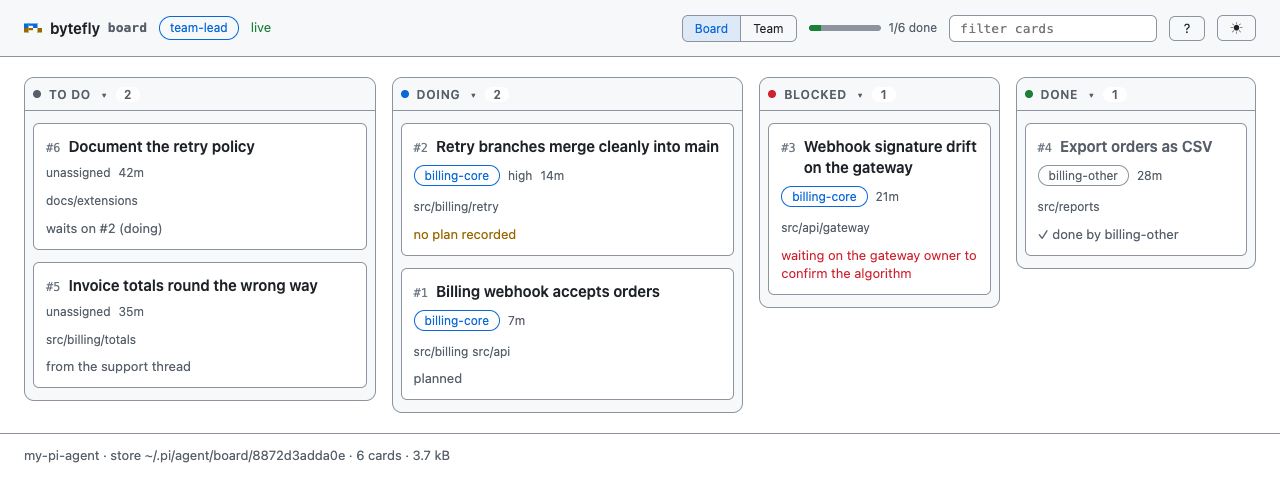
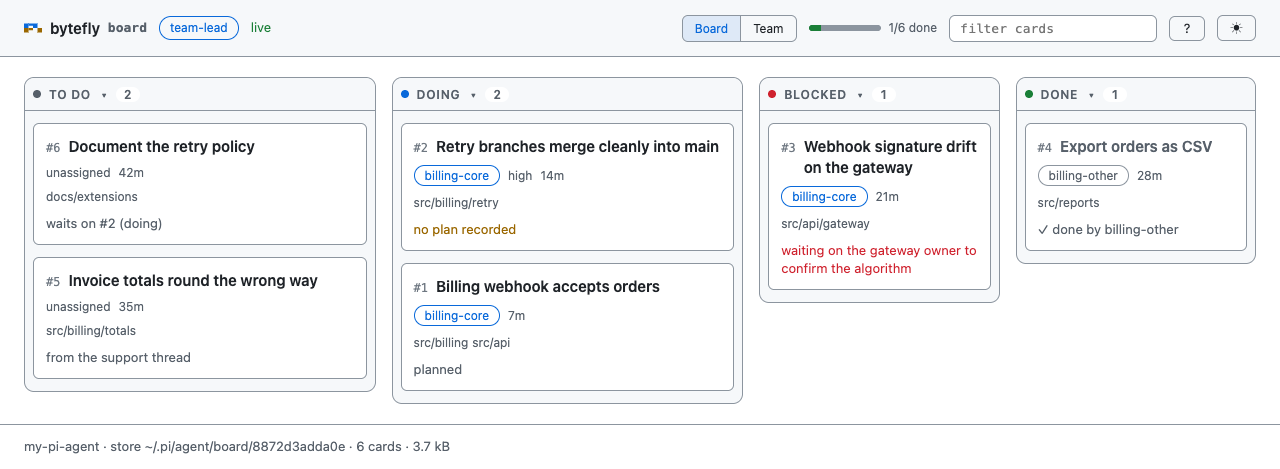
fix(board): keep a card's long path and title inside the card
A chip is one line and nowrap by design, and each path chip sat in a flex
item whose automatic minimum was the chip's width — so one path, or one
`/team join` label, longer than the card crossed the card's border and the
lane beside it (measured at 1280: a 348px chip in a 318px card).

The list item now shrinks (`min-width:0`), the card's chips clip at the card's
edge (`display:block`, `max-width:100%`, ellipsis), the renderer puts the whole
path on each chip's hover title the way the card dialog already does, and a
title with no spaces wraps into its two-line clamp instead of being cut
mid-word. The lighter inline-flex variant stops the spill too, but hard-clips
with no ellipsis, so the chips lay out as blocks inside a card — which is why
assets/screens/board.png is a few pixels tighter per card.

The browser suite seeds a 90-character path mid-run and fails if any card's
content spills; it fails on the old CSS.

diff --git a/extensions/board/view/styles.ts b/extensions/board/view/styles.ts
@@ -77,7 +77,7 @@ ${WEB_COMPONENTS_CSS}
 .board-card[hidden]{display:none}
 .board-card__head{display:flex;align-items:baseline;gap:var(--space-2);margin:0;min-width:0}
 .board-card__id{font:var(--fs-xs) var(--font-mono);color:var(--dim)}
-.board-card__title{margin:0;padding:0;border:0;background:none;text-align:left;cursor:pointer;font:var(--fw-semibold) var(--fs-base)/var(--lh-snug) var(--font-ui);color:var(--text);display:-webkit-box;-webkit-line-clamp:2;-webkit-box-orient:vertical;overflow:hidden}
+.board-card__title{margin:0;padding:0;border:0;background:none;text-align:left;cursor:pointer;font:var(--fw-semibold) var(--fs-base)/var(--lh-snug) var(--font-ui);color:var(--text);display:-webkit-box;-webkit-line-clamp:2;-webkit-box-orient:vertical;overflow:hidden;overflow-wrap:anywhere}
 .board-card__title:hover{color:var(--accent)}
 /* Finished work recedes: it is history, and the live lanes should not compete with it. */
 .board-card[data-status="done"] .board-card__title{color:var(--muted)}
@@ -85,6 +85,12 @@ ${WEB_COMPONENTS_CSS}
 .board-card[data-status="done"] .bf-chip--accent{color:var(--muted);border-color:var(--border)}
 .board-card__meta{display:flex;flex-wrap:wrap;align-items:center;gap:var(--space-2);margin:0;font:var(--fs-xs) var(--font-ui);color:var(--muted)}
 .board-card__paths{display:flex;flex-wrap:wrap;gap:var(--space-1);margin:0;padding:0;list-style:none}
+/* A chip is one line and nowrap by design, so an owner label or a path longer than the card
+   would spill past its border and across the lane beside it: clipped to the card instead,
+   with the whole of it on the hover title the renderer sets. The list item has to be the one
+   that shrinks, because a flex item's automatic minimum is its chip's width. */
+.board-card__paths li{min-width:0;max-width:100%}
+.board-card .bf-chip{display:block;max-width:100%;overflow:hidden;text-overflow:ellipsis}
 .board-card__reason{margin:0;font:var(--fs-sm)/var(--lh-snug) var(--font-ui);color:var(--muted);display:-webkit-box;-webkit-line-clamp:2;-webkit-box-orient:vertical;overflow:hidden;overflow-wrap:anywhere}
 .board-card__reason--blocked{color:var(--danger)}
 .board-card__reason--unplanned{color:var(--warn)}

diff --git a/extensions/board/view/behaviour.test.ts b/extensions/board/view/behaviour.test.ts
@@ -122,6 +122,9 @@ interface Doc {
 interface ElementLike {
 	textContent: string | null;
 	hidden: boolean;
+	/** The box a child can overflow: a card whose content spills has the larger scroll width. */
+	scrollWidth: number;
+	clientWidth: number;
 	getAttribute(name: string): string | null;
 }
 
@@ -427,6 +430,28 @@ describe.skipIf(CHROME === undefined)("the served page", () => {
 				undefined,
 				{ timeout: PAINT_MS },
 			);
+		} finally {
+			await store.mutate(added.id, { kind: "drop" }, CORE, clock.now());
+			await page.close();
+		}
+	});
+
+	test("keeps a path longer than the card inside it, and the whole value on its title", async () => {
+		const page = await openPage();
+		// A path with no break opportunity, longer than any lane: a one-line, nowrap chip used to
+		// spill out of the card and over the lane beside it.
+		const path = `src/billing/reconciliation/legacy-adapter/compat/shim/${"x".repeat(90)}/index.ts`;
+		const added = await store.create({ title: "A card with a long hint", paths: [path] }, CORE, clock.now());
+		try {
+			const chip = page.locator(`.board-card[data-card="${added.id}"] .board-card__paths .bf-chip`);
+			await chip.waitFor({ timeout: PAINT_MS });
+			expect(await chip.getAttribute("title")).toBe(path);
+			const spills = await page.$$eval(".board-card", (cards) =>
+				Array.from(cards as ArrayLike<ElementLike>)
+					.filter((card) => card.scrollWidth > card.clientWidth + 1)
+					.map((card) => card.getAttribute("data-card") ?? "?"),
+			);
+			expect(spills).toEqual([]);
 		} finally {
 			await store.mutate(added.id, { kind: "drop" }, CORE, clock.now());
 			await page.close();

diff --git a/extensions/board/view/pages.test.ts b/extensions/board/view/pages.test.ts
@@ -174,6 +174,19 @@ describe("the document", () => {
 		expect(BOARD_CSS).toContain(".board-dialog__value{white-space:nowrap;overflow:hidden;text-overflow:ellipsis}");
 	});
 
+	test("keeps a card's text inside its border", () => {
+		// A chip is one line and nowrap by design, so an owner label or a path longer than the
+		// card used to spill past its border and across the lane beside it. The list item is
+		// what shrinks, the chip is what clips, and the whole value is on the hover title.
+		expect(BOARD_CSS).toContain(".board-card__paths li{min-width:0;max-width:100%}");
+		expect(BOARD_CSS).toContain(
+			".board-card .bf-chip{display:block;max-width:100%;overflow:hidden;text-overflow:ellipsis}",
+		);
+		expect(BOARD_CLIENT_JS).toContain("hint.title = shown[i]");
+		// A title with no spaces in it wraps to the two-line clamp instead of being cut mid-word.
+		expect(ownRules()).toMatch(/\.board-card__title\{[^}]*overflow-wrap:anywhere/);
+	});
+
 	test("draws every colour through a kit token", () => {
 		// A literal colour would survive the theme toggle and the print theme. The
 		// shared theme block is where literals belong, so only the page's own rules

diff --git a/extensions/board/view/render.ts b/extensions/board/view/render.ts
@@ -153,7 +153,11 @@ __RUNTIME__
     var shown = card.paths.slice(0, limit);
     for (var i = 0; i < shown.length; i++) {
       var item = el("li", "");
-      item.appendChild(chip(shown[i]));
+      var hint = chip(shown[i]);
+      // A path longer than the card elides, and the whole of it is on the hover title: the
+      // card is often the only place its hints are read before opening the record.
+      hint.title = shown[i];
+      item.appendChild(hint);
       list.appendChild(item);
     }
     if (card.paths.length > limit) {

diff --git a/docs/extensions/board.md b/docs/extensions/board.md
@@ -188,7 +188,7 @@ reason: a store key is a hash, and no reader can say it out loud.
 |---|---|
 | Toolbar | the mark, the seat the page is served as, as a chip, a live badge (`connecting…`, `live` or `live · 3m`, `reconnecting…`), then one group: the Board\|Team switch, done-of-total progress, a filter, the keys button, and the theme toggle |
 | Lanes | trays, not a bare list: one column per lane, sized by the work it holds — a lane with two cards is wider than one with a single card, and a lane showing nothing, because it holds no cards or because it is folded, narrows to a rail of dot, word, and count — so the lanes carrying work keep the width. Three or four across above 1180px, two at 1180px or narrower, one lane plus the lane switch at 860px or narrower — where it opens on the first lane that holds a card. Each head sticks while the pane scrolls, carries its count as a pill, and folds its cards away: `Done` starts folded at six cards or more, since finished work is history, and a reader's toggle decides from then on |
-| Cards | the id and a two-line title (the page's loudest text and its only door), an owner chip and an age, a muted priority chip when it is not `normal`, path chips, and one reason line in one voice — what a card waits for, a blocked card's recorded reason or else its last note (or `blocked, with nothing recorded`), `no plan recorded`, `planned`, `✓ done by <owner>` with the commit it landed as, and the last note of a card that is none of those — up to two lines at the Team tab's size, with the whole sentence as its tooltip, because the reason is the reason to act on the card. A card draws **no button**: claiming, moving, editing, and annotating are the tools' work, and a face that offered them would be offering a refusal. A hovered card lifts a pixel; a finished one recedes, title and owner chip muted |
+| Cards | the id and a two-line title (the page's loudest text and its only door), an owner chip and an age, a muted priority chip when it is not `normal`, path chips, and one reason line in one voice — what a card waits for, a blocked card's recorded reason or else its last note (or `blocked, with nothing recorded`), `no plan recorded`, `planned`, `✓ done by <owner>` with the commit it landed as, and the last note of a card that is none of those — up to two lines at the Team tab's size, with the whole sentence as its tooltip, because the reason is the reason to act on the card. A title and a path chip elide **inside** the card: a chip is one line by design, so a path or a label longer than the card is clipped rather than crossing into the lane beside it, and its whole value is the hover title. A card draws **no button**: claiming, moving, editing, and annotating are the tools' work, and a face that offered them would be offering a refusal. A hovered card lifts a pixel; a finished one recedes, title and owner chip muted |
 | Team | two panels and a strip. **Needs a decision** is one row per card — a card that is both idle and unplanned arrives once, keeping its strongest reason — laid out as two lines: the id, title and owner chip on the first, the reason on the second — a blocked card's recorded `blockedBy`, else its last note, and `offered 2h ago — nobody took it` for a card whose offer went unanswered — with the whole sentence as its tooltip, and its kind as a left edge (`--danger` blocked, `--warn` idle, `--dim` unplanned or waiting, the same `--dim` dashed for nobody's). The row is a reason to pick the card up in the terminal, and it draws no button: claiming and reclaiming are the tools' work. An unassigned card that waits on unfinished work is a row of its own kind, ranked just under a blocker. Above 1180px the queue stops at one screen's height and scrolls inside its panel, so the roster and the Done strip stay on the same page as its top. **Teammates** is one row per person — a state dot, the label, a `you` chip, a `not listening` chip on a live peer whose inbox watch is off, a mail badge, then `live · 3 held · 1 done · oldest 21m` (a quiet session reads `quiet for 2h`, because a word without an age is no reason to reclaim) — sorted you, live, quiet, no record, and an owner whose label nothing answers to keeps its row. Done is one quiet strip whose ids open their cards. Both panels honour the toolbar's filter, and their headings read `shown/total` the way a lane head does. Below 1180px the queue comes first and the roster follows |
 | Card dialog | the record of one card, in two named sections. The head carries the id, the title, and the lane as a dot and a word. **The card** is a ladder — one fact per row, labels sized to the longest of them so the values line up: owner, priority when it is not `normal`, updated, in lane, last edited, landed, waits on, waited on by, plan, paths. `in lane` is the lane the card is in and how long it has held it, read from the card's transitions rather than from `updatedAt`, which a note or an edit moves; a card whose history does not say omits the row. The plan and each path are one line that elides, with the whole value on the hover title; what it waits for reads `#2 (doing)`, the lanes that make the id a decision. Empty rows take their labels with them. **Notes · N** is the cargo at body size on a 68ch measure, each sentence with its attribution under it and a rule between notes, and `M earlier notes dropped` when the store capped them. The body is the only scroll, so the head and `Close` stay put. Nothing in it writes, every field is a set as `textContent`, and the title underneath every card is the way in. `j`/`k` walk to the next or previous card without closing it, and an `sr-only` live region announces `card 2 of 3: <title>` — a title that changes inside an open modal is not announced on its own |
 (feat(team): an offer leaves a record, so its age can be read)

diff --git a/CHANGELOG.md b/CHANGELOG.md
@@ -83,6 +83,13 @@ to [Semantic Versioning](https://semver.org/spec/v2.0.0.html).
   3.8 µs instead of 16–24 µs, and a frame that moved pays the key as well, which is the
   trade: the footer changes on a session event, not on every repaint.
 
+### Fixed
+
+- `board`: a card's path or owner chip longer than the card stays inside it. A chip is one
+  line by design, so a long path crossed the card's border and the lane beside it; it now
+  elides at the card's edge with the whole value on its hover title, and a title with no
+  spaces wraps into its two-line clamp instead of being cut mid-word.
+
 ## [0.20.0] - 2026-10-26
 
 ### Added
